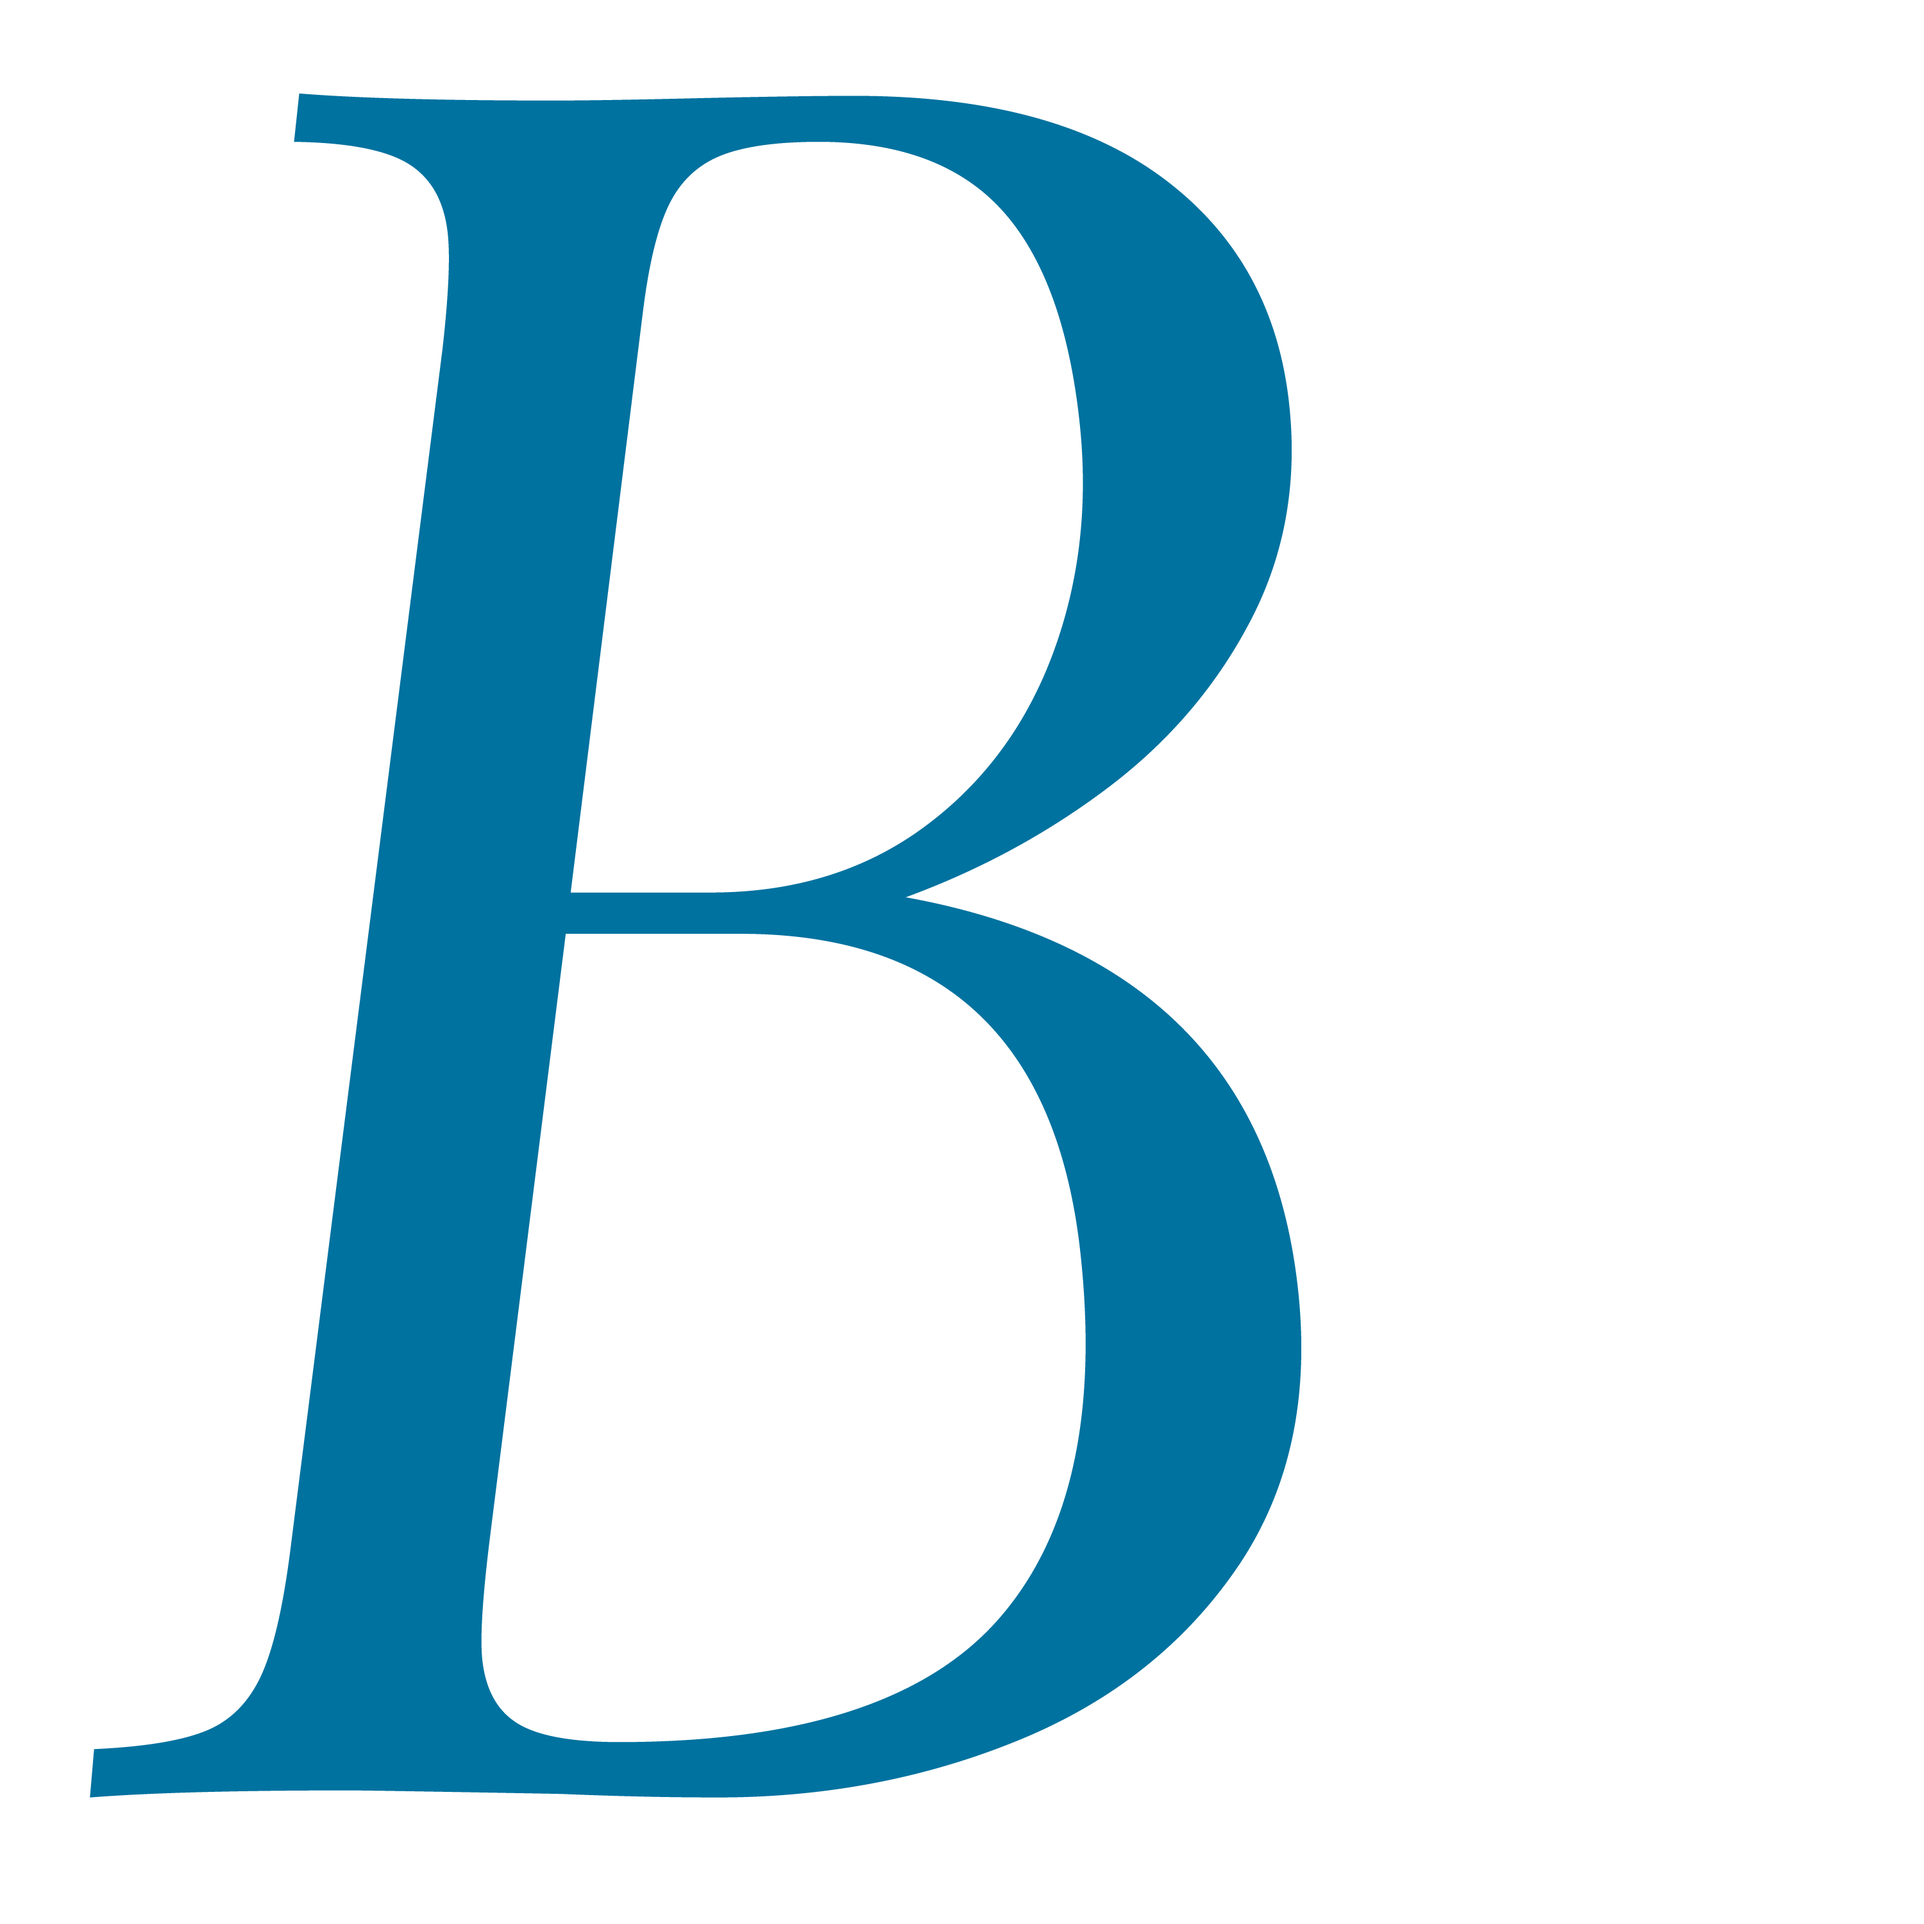
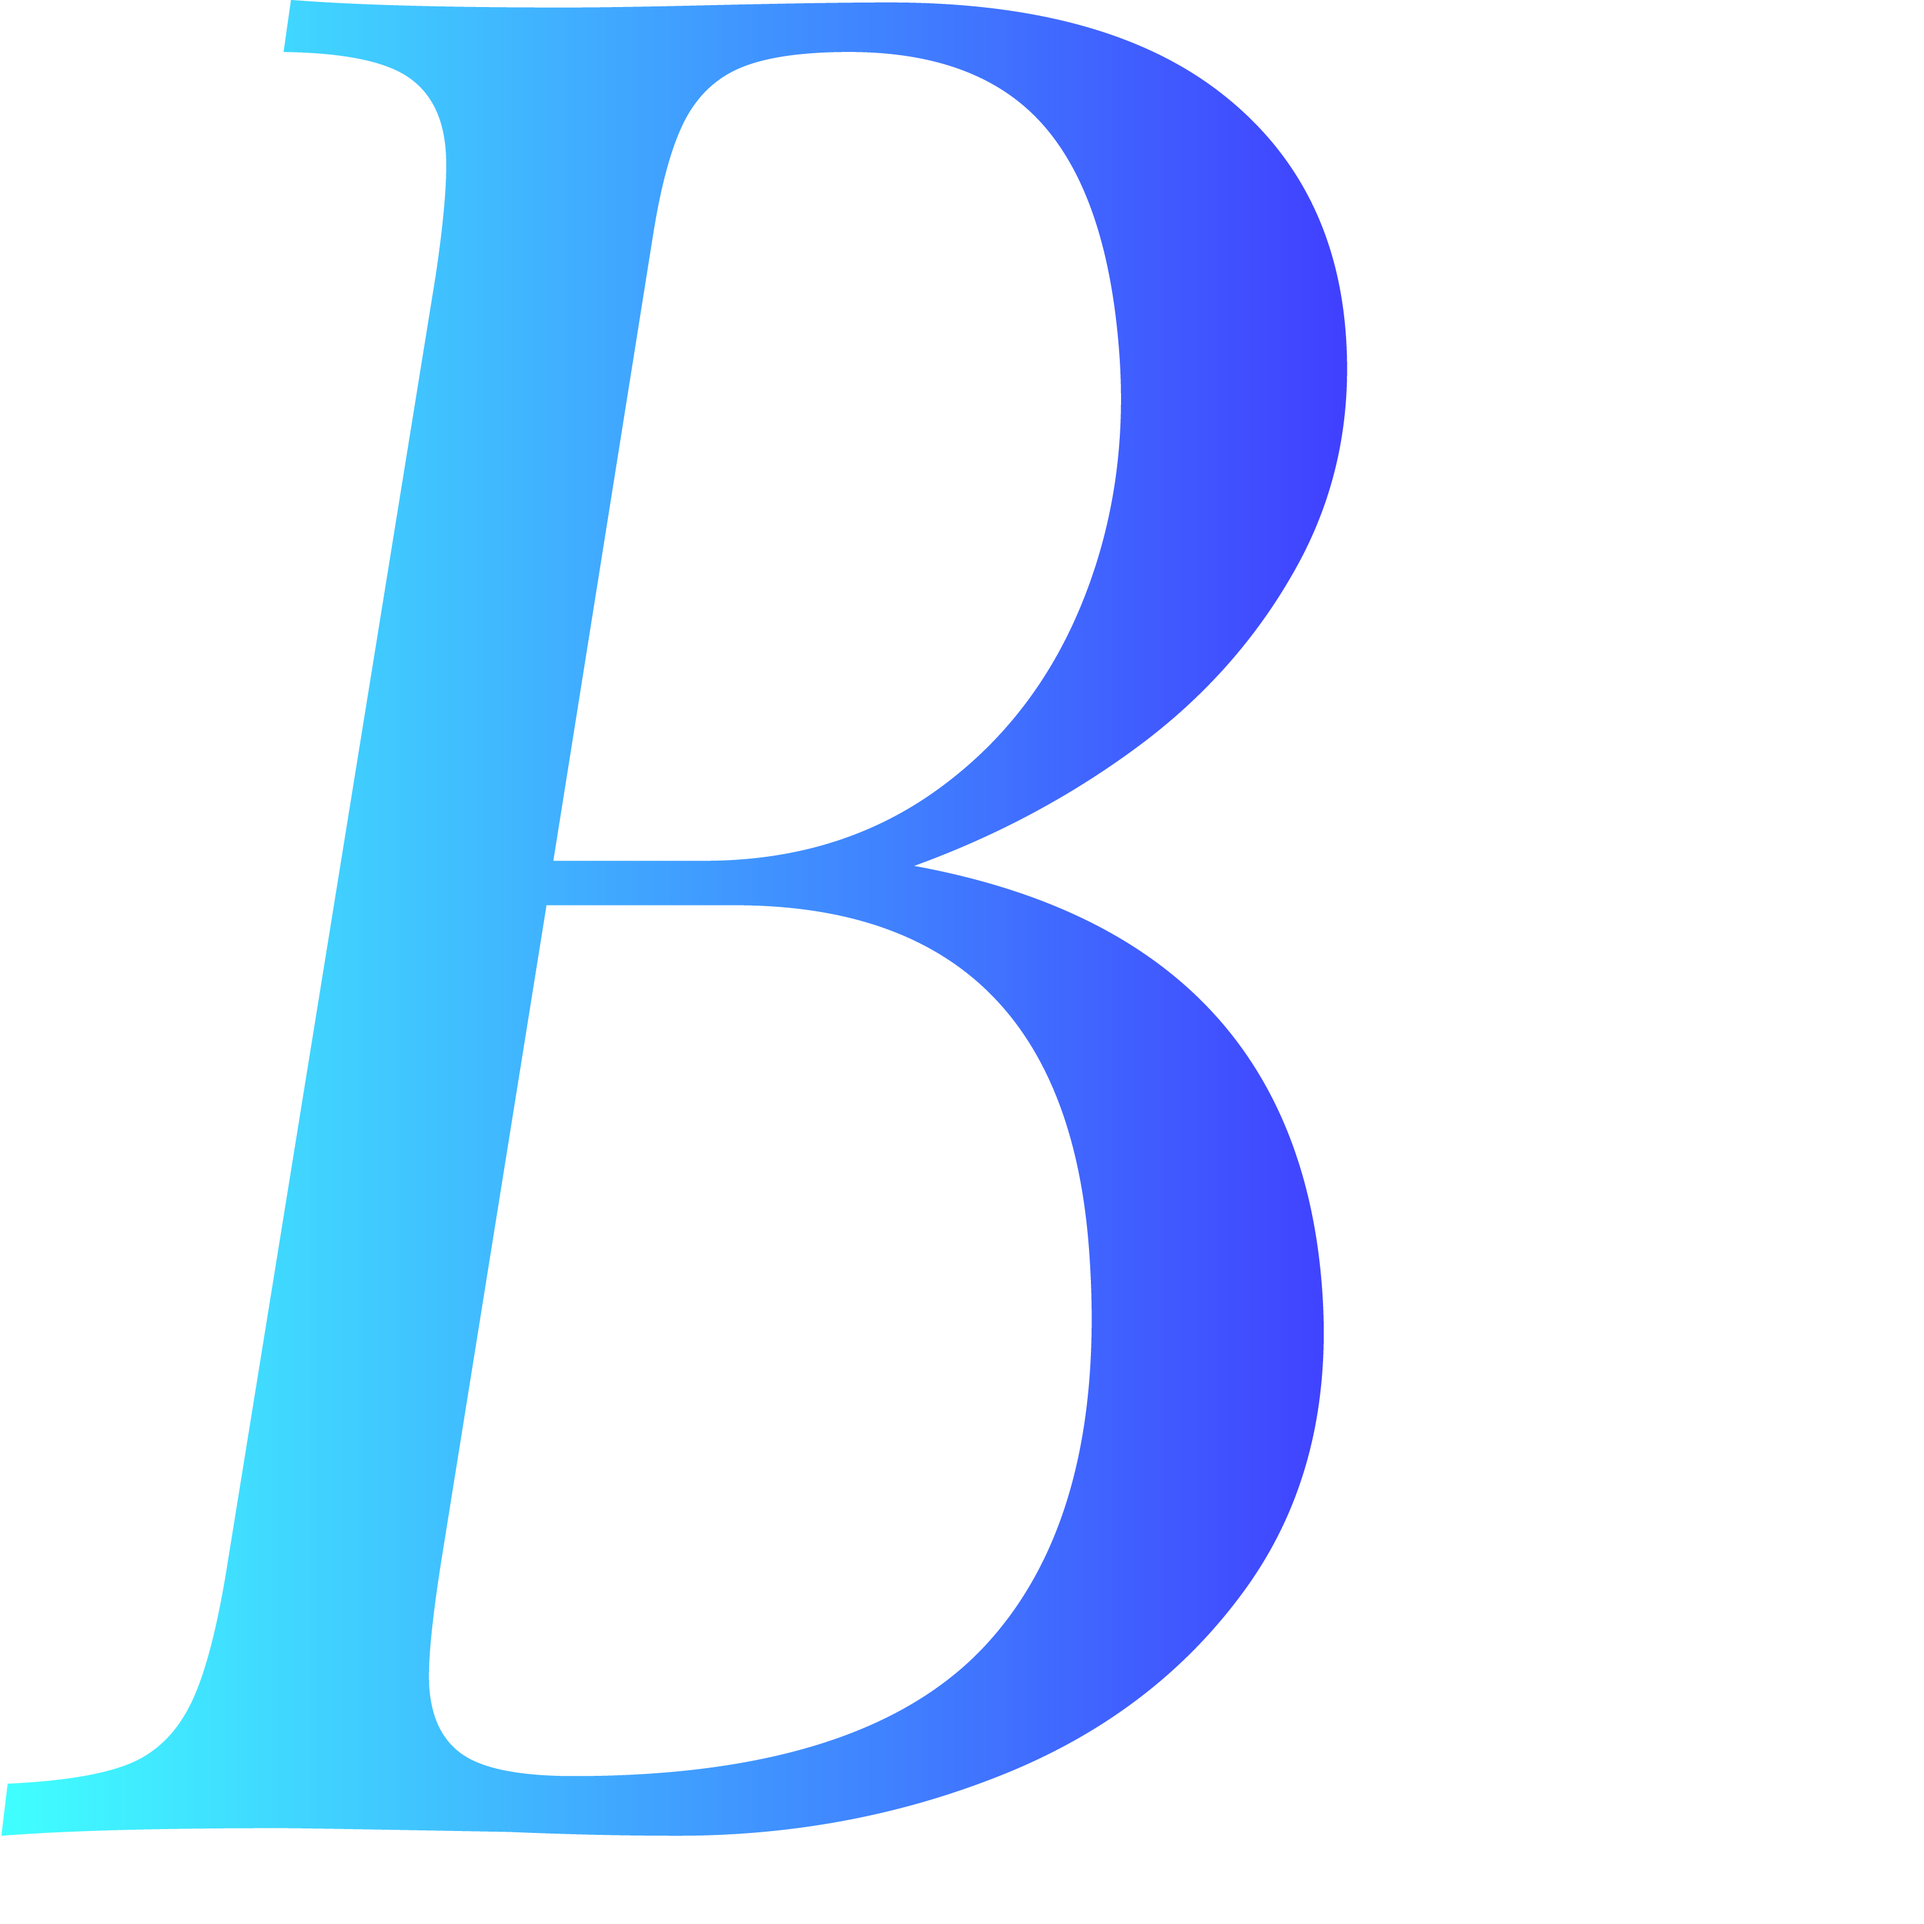
graaaadient+drag

Changed region(s): [[0.0, 0.0, 0.713, 0.961]]

diff --git a/contact.html b/contact.html
@@ -33,8 +33,10 @@
 	<li><a href="contact.html">contact</a></li>
 	<li><a href="Bethany_H_Resume.pdf">resume</a></li>
 </ul>
-<img id='monogram' src='assets/imgs/monogram-serif.png'>
-<h1 id='corner-name' class='drag'>bkh.</h1>
+<img class='monogram' id='monogram-b' src='assets/imgs/monogram-b.png'>
+<img class='monogram' id='monogram-h' src='assets/imgs/monogram-h.png'>
+<img class='monogram' id='monogram-outline' src='assets/imgs/monogram-b-outline.png'>
+<h1 id='corner-name'>bkh.</h1>
 <div class='text-body'>
 	<p class='heading'>contact option #1: let's get coffee.</p>
 	<p>There's also a 50% chance of finding me somewhere in the Sciences Library at any time 10a-10p ET. Please bring me Hot Cheetos if you intend on meeting me there and interrupting my Extremely Important Homework Time. (Kidding about the homework, not really about the rest.)</p>
@@ -47,7 +49,7 @@
 		<p class='social-icon'><a class='social-icon' href="mailto:bethany_hung@brown.edu"><i class = "icon-envelope"></i></a></p>
 		<p class='social-icon'><a class='social-icon' href="https://www.linkedin.com/in/bethanyhung" target="_blank"><i class = "icon-social-linkedin"></i></a></p>
 		<p class='social-icon'><a class='social-icon' href="https://github.com/bethny" target="_blank"><i class = "icon-social-github"></i></a></p>
-		<p class='social-icon'><a class='social-icon' href="https://www.twitter.com/BethnyK" target="_blank"><i class = "icon-social-twitter"></i></a></p>
+		<p class='social-icon'><a class='social-icon' href="https://www.twitter.com/BethnyBB" target="_blank"><i class = "icon-social-twitter"></i></a></p>
 		<p class='social-icon'><a class='social-icon' href="https://www.facebook.com/seapancake" target="_blank"><i class = "icon-social-facebook"></i></a></p>		
 		<p class='social-icon'><a class='social-icon' href="http://www.nails-and-whales.blogspot.com" target="_blank"><i class = "icon-magic-wand"></i></a></p>
 	</div>

diff --git a/css/brutalism2.css b/css/brutalism2.css
@@ -113,6 +113,15 @@ span {
     flex-direction: column;
     justify-content: flex-end;
 }
+#bkg-txt{
+    width: 270px;
+    height: 340px;
+    z-index: -2;
+    position: absolute;
+    top: 50%;
+    left: 50%;
+    margin: -170px 0 0 -135px;
+}
 
 #blurb {
     font-family: Fakt;
@@ -166,15 +175,6 @@ span {
     background-color: #cdcdcd;
 }
 
-#monogram {
-    position: fixed;
-    z-index: -3;
-    width: 325px;
-    height: 325px;
-    opacity: 0.5;
-}
-
-
 #corner-name {
     position: fixed;
     z-index: -3;
@@ -183,6 +183,22 @@ span {
     bottom: -2px;
     font-size: 80px;
     text-align: right;
+}
+
+#monogram-b {
+    z-index: 2;
+    cursor: move;
+    opacity: 0.5;
+}
+
+#monogram-h {
+    z-index: 1;
+    opacity: 0.8;
+}
+
+#monogram-outline {
+    z-index: 1;
+    opacity: 0.8;
 }
 
 #msg-field {
@@ -284,6 +300,19 @@ span {
     margin-bottom: 15px;
 }
 
+.center-text{
+    font-family: Fakt;
+    font-size: 16px;
+    margin: 0 auto;
+    line-height: 170%;
+}
+
+.centered-container{
+    display: flex;
+    flex-direction: column;
+    justify-content: center;
+}
+
 .circle-container {
     display: flex;
     padding: 0;
@@ -356,6 +385,15 @@ span {
     font-weight: normal;
 }
 
+.monogram {
+    position: fixed;
+    top: 0;
+    left: 0;
+    width: 340px;
+    height: 340px;
+    opacity: 0.6;
+}
+
 .name {
     z-index: 2;
     opacity: .2;
@@ -375,6 +413,7 @@ span {
     margin-top: 40px;
     margin-left: 40px;
     padding: 0;
+    z-index: 3;
 }
 
 .translucent {
@@ -427,21 +466,9 @@ span {
     margin: 0 auto;
     padding-top: 80px;
     margin-bottom: 80px;
+    z-index: -5;
 }
 
-/*.work-card {
-    border: 2px solid black;
-    width: 150px;
-    height: 300px;
-    margin-bottom: 30px;
-}
-
-.work-card-container {
-    display: flex;
-    justify-content: space-between;
-    padding: 0;
-    flex-wrap: wrap;
-}*/
 
 /*MINOR CLASSES*/
 .span-C {

diff --git a/work.html b/work.html
@@ -33,8 +33,10 @@
 	<li><a href="contact.html">contact</a></li>
 	<li><a href="Bethany_H_Resume.pdf">resume</a></li>
 </ul>
-<img id='monogram' src='assets/imgs/monogram-serif.png'>
-<h1 id='corner-name' class='drag'>bkh.</h1>
+<img class='monogram' id='monogram-b' src='assets/imgs/monogram-b.png'>
+<img class='monogram' id='monogram-h' src='assets/imgs/monogram-h.png'>
+<img class='monogram' id='monogram-outline' src='assets/imgs/monogram-b-outline.png'>
+<h1 id='corner-name'>bkh.</h1>
 <div class='text-body'>
 	<p class='heading'>things i do</p>
 	<p><i>Work in progress. Publishing for fun. Pre-brutalism, somewhat-more-complete version <a href="work_alt.html">here</a>.</i></p>
@@ -70,19 +72,6 @@
 	<p>Dataview</p>
 	<p>Interalct</p>
 	<p>Nails &amp; Whales</p>
-	<!-- <h2>research</h2>
-	<div class='date'><p class='heading'>Sep '15 – present</p></div>
-	<p>Fulvio Domini &amp; Carlo Campagnoli, <a href='http://www.cog.brown.edu/research/3Dspl/index.html' target='_blank'>Brown University 3D Shape Lab</a></p>
-	<div class='date'>May '16 — Aug '16</div>
-	<p>Anthony Norcia &amp; Peter Kohler, <a href='https://svndl.stanford.edu/' target='_blank'>Stanford Vision and Neuro-Development Lab</a></p>
-	<div class='date'>Feb '17 — present</div>
-	<p>Joo-Hyun Song &amp; Dan McCarthy, <a href='' target='_blank'>Brown University Perception, Action, &amp; Cognition Lab</a></p>
-	<div class='date'>May '17 — Aug '17</div>
-	<p>Anthony Norcia, Alexandra Yakovleva, &amp; Jeffrey Goldberg, <a href='https://svndl.stanford.edu' target='_blank'>Stanford Vision and Neuro-Development Lab</a> in collabortion with Stanford Medicine Department of Ophthalmology</p>
-	<h2>design</h2>
-	<p></p>
-	<h2>code</h2>
-	<p></p> -->
 
 </div>
 </body>

diff --git a/about.html b/about.html
@@ -33,8 +33,10 @@
 	<li><a href="contact.html">contact</a></li>
 	<li><a href="Bethany_H_Resume.pdf">resume</a></li>
 </ul>
-<img id='monogram' src='assets/imgs/monogram-serif.png'>
-<h1 id='corner-name' class='drag'>bkh.</h1>
+<img class='monogram' id='monogram-b' src='assets/imgs/monogram-b.png'>
+<img class='monogram' id='monogram-h' src='assets/imgs/monogram-h.png'>
+<img class='monogram' id='monogram-outline' src='assets/imgs/monogram-b-outline.png'>
+<h1 id='corner-name'>bkh.</h1>
 <div class='text-body'>
 	<p class='heading'>sup.<br>kinda a programmer, kinda a designer, really just a cog neuro kid.</p>
 
@@ -53,7 +55,7 @@
 		<p class='social-icon'><a class='social-icon' href="mailto:bethany_hung@brown.edu"><i class = "icon-envelope"></i></a></p>
 		<p class='social-icon'><a class='social-icon' href="https://www.linkedin.com/in/bethanyhung" target="_blank"><i class = "icon-social-linkedin"></i></a></p>
 		<p class='social-icon'><a class='social-icon' href="https://github.com/bethny" target="_blank"><i class = "icon-social-github"></i></a></p>
-		<p class='social-icon'><a class='social-icon' href="https://www.twitter.com/BethnyK" target="_blank"><i class = "icon-social-twitter"></i></a></p>
+		<p class='social-icon'><a class='social-icon' href="https://www.twitter.com/BethnyBB" target="_blank"><i class = "icon-social-twitter"></i></a></p>
 		<p class='social-icon'><a class='social-icon' href="https://www.facebook.com/seapancake" target="_blank"><i class = "icon-social-facebook"></i></a></p>		
 		<p class='social-icon'><a class='social-icon' href="http://www.nails-and-whales.blogspot.com" target="_blank"><i class = "icon-magic-wand"></i></a></p>
 	</div>

diff --git a/js/indexbrut.js b/js/indexbrut.js
@@ -60,7 +60,7 @@ $(document).ready(function(){
 		$('.square-button').show();
 	});
 
-	$('.drag').draggable({scroll:false});
+	$('#monogram-b').draggable({scroll:false});
 	$('#name-2').draggable({scroll:false});
 	$('#name-3').draggable({scroll:false});
 
@@ -92,6 +92,7 @@ $(document).ready(function(){
 		$('#name-1,#name-2,#name-3').css("opacity","0.5");
 		$('input').css("background-color",$rose);
 		$('input').css("border","2px solid #e4c1e2");
+		$('.center-text').css("color","#FFFFFF");
 		
 
 		$('#link-1-span').on("mouseenter", function() {
@@ -129,6 +130,7 @@ $(document).ready(function(){
 		$('#name-1,#name-2,#name-3').css("opacity","0.2");
 		$('input').css("background-color",$cyan);
 		$('input').css("border","2px solid #00FFFF");
+		$('.center-text').css("color","#000000");
 
 		$('#link-1-span').on("mouseenter", function() {
 			$('#link-1-span').css("background-color","#00FFFF");
@@ -164,6 +166,7 @@ $(document).ready(function(){
 		$('#name-1,#name-2,#name-3').css("opacity","0.2");
 		$('input').css("background-color",$grey);
 		$('input').css("border","2px solid" + $grey);
+		$('.center-text').css("color","#000000");
 
 
 		$('#link-1-span').on("mouseenter", function() {

diff --git a/index.html b/index.html
@@ -66,6 +66,9 @@
 			<p id='blurb'>i'm all about jquery abuse, brainwaves, and salted dark chocolate.</p>
 		</div>
 	</div>
+	<div id='bkg-txt' class='centered-container'>
+		<div class='center-text'>did you know that kit-kats taste even better refrigerated, and that histidine is zwitterionic at physiological pH despite being basic?<br><br>lookin' out for ya.</div>
+	</div>
 <!-- 	<div id='card-3' class='another-container'>
 		<div>
 			<div class='card-child'>
